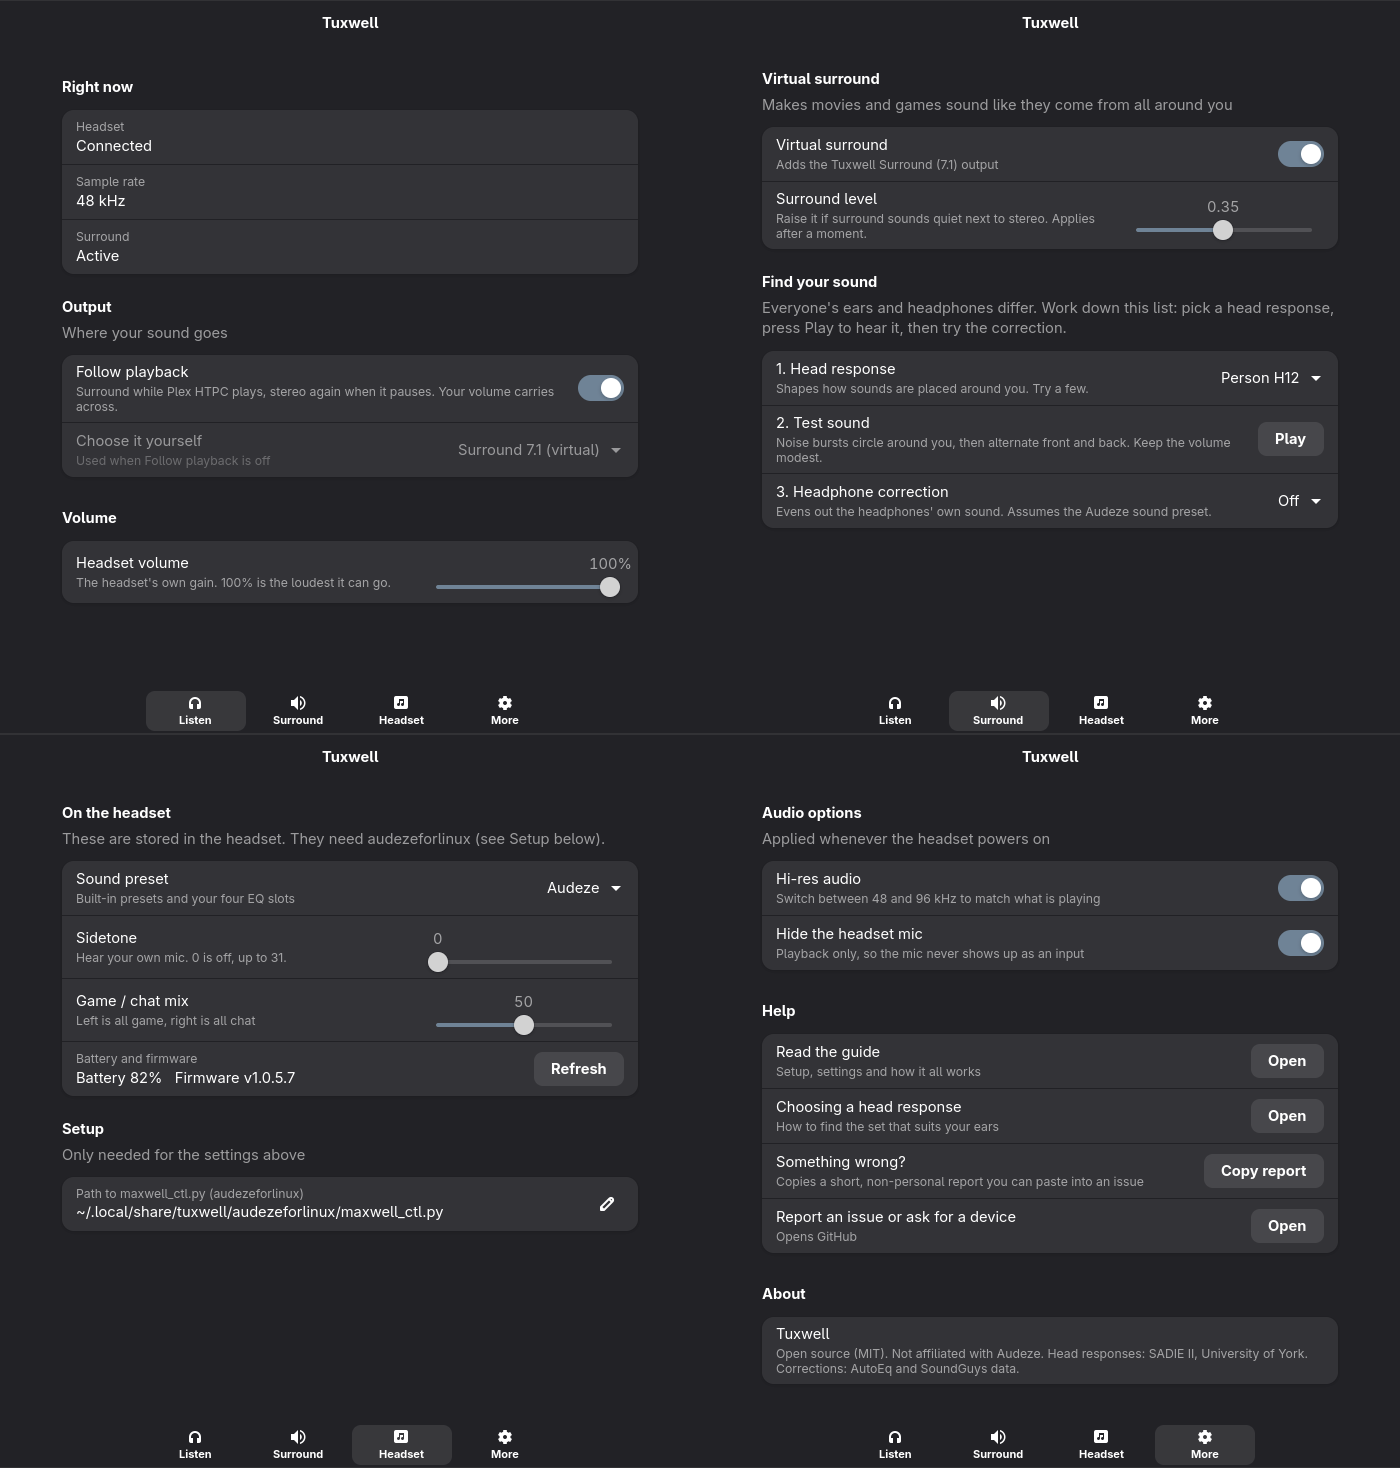
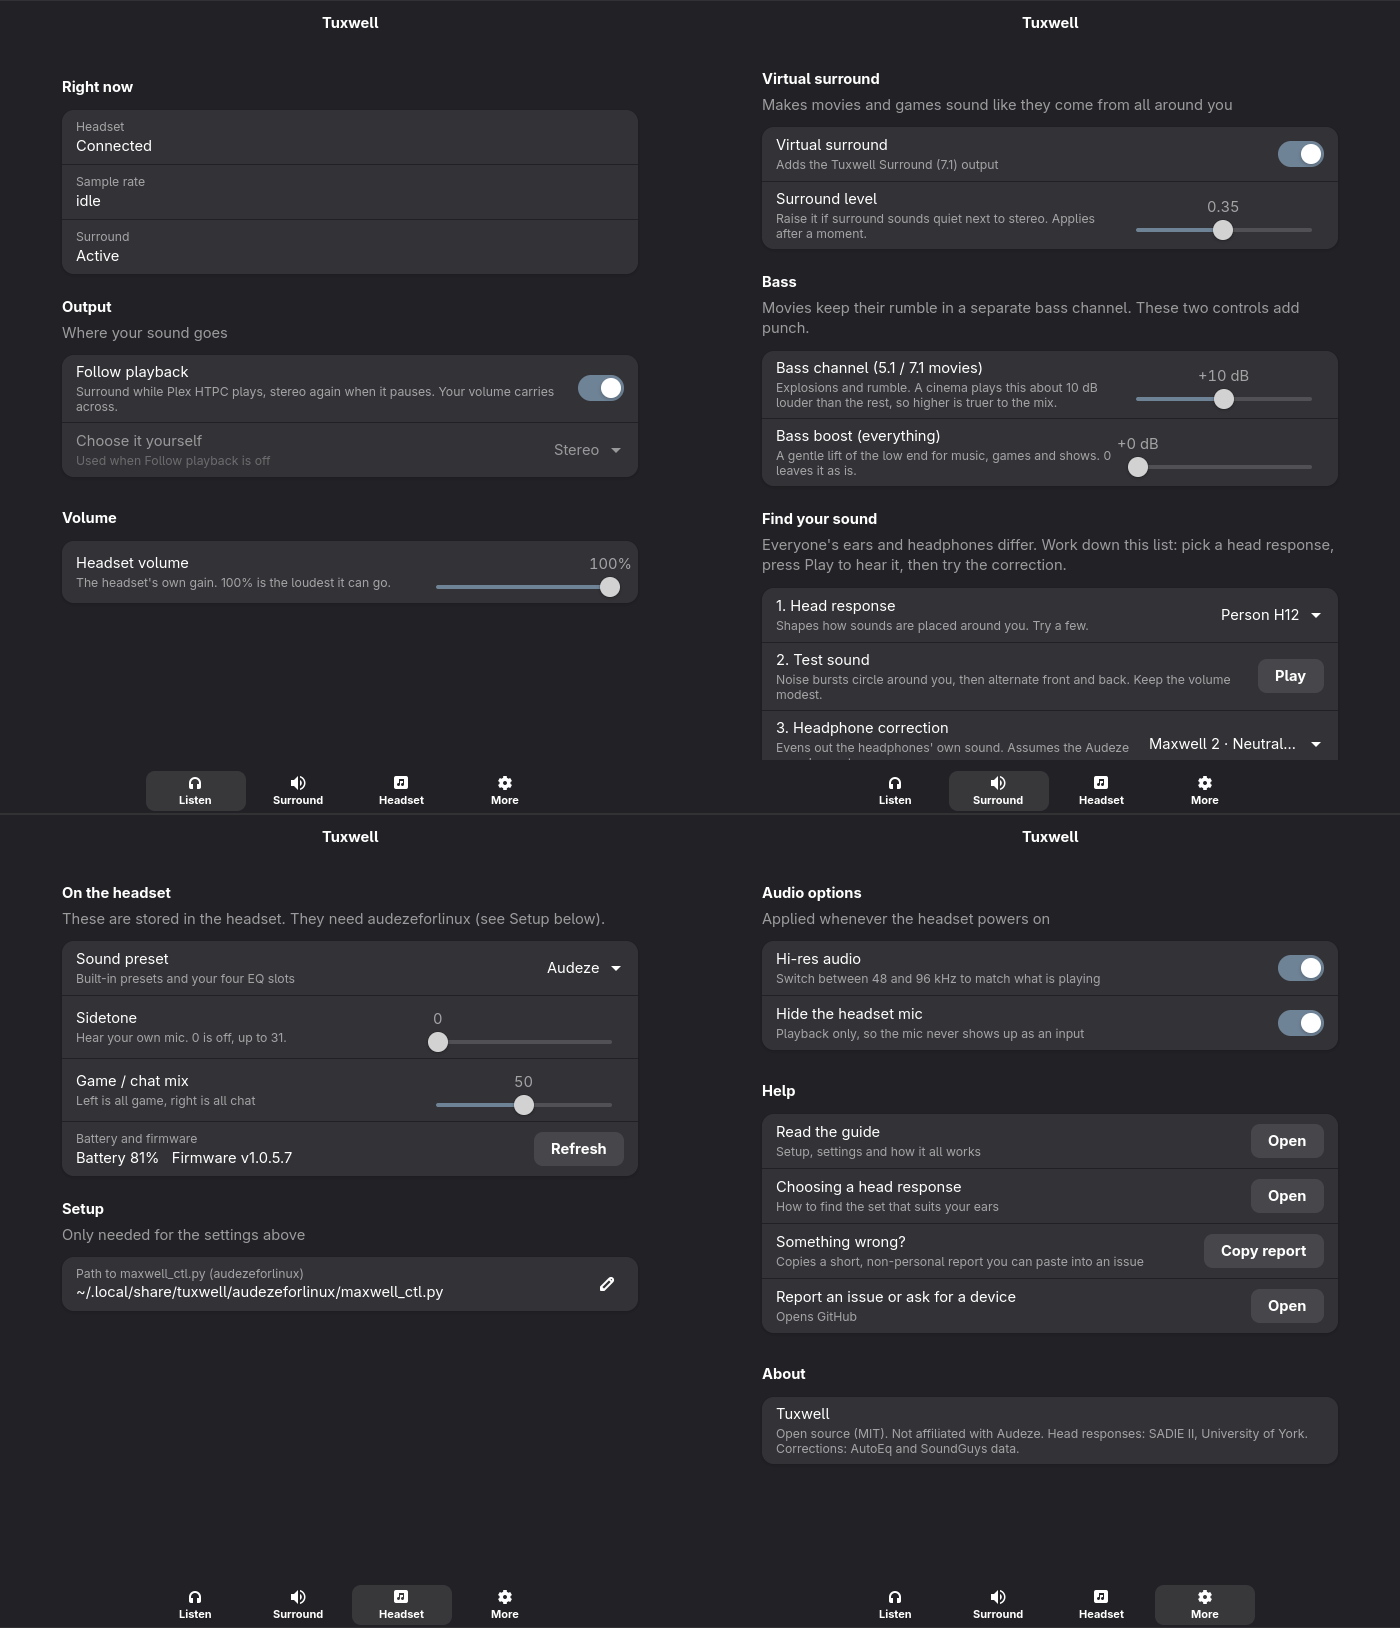
Fix thin movie bass: lift the LFE channel (measured ~11 dB too quiet), add a bass boost
Measured at the headset with the same noise through each path: the virtual surround's dedicated bass (LFE)
channel arrived ~11 dB below a normal channel, where a cinema plays it ~10 dB above. LFE_DB (default +10)
lifts it, verified at exactly +10 dB. BASS_DB adds an optional gentle low shelf for everything. Two sliders in
the Surround tab.

diff --git a/README.md b/README.md
@@ -74,6 +74,8 @@ These live inside the headset and need two things:
 | `HIRES` | `1` | Allow 48 / 96 kHz switching |
 | `DISABLE_MIC` | `1` | Playback-only card profile |
 | `SURROUND_ENABLED` | `1` | Create the surround output |
+| `LFE_DB` | `10` | Lift for the dedicated bass (LFE) channel of 5.1/7.1 content. Measured: left alone it reached the ears ~11 dB *below* a normal channel, while a cinema plays it ~10 dB *above*. Up to 24. |
+| `BASS_DB` | `0` | Extra bass on everything in the surround output (a low shelf at 105 Hz), up to 12 dB. |
 | `SURROUND_GAIN` | `0.27` | Level of the surround mix (also a slider in the app). 0.27 was measured to make centred stereo exactly as loud through surround as through the stereo output. |
 | `CENTER_DB` | `3` | Extra dB on the centre channel so 5.1 dialogue matches a stereo downmix. |
 | `AUTO_DEFAULT` | `1` | The default output follows playback: surround while `PLAYING_APPS` plays, stereo when it pauses. Your volume is carried across each switch. |
